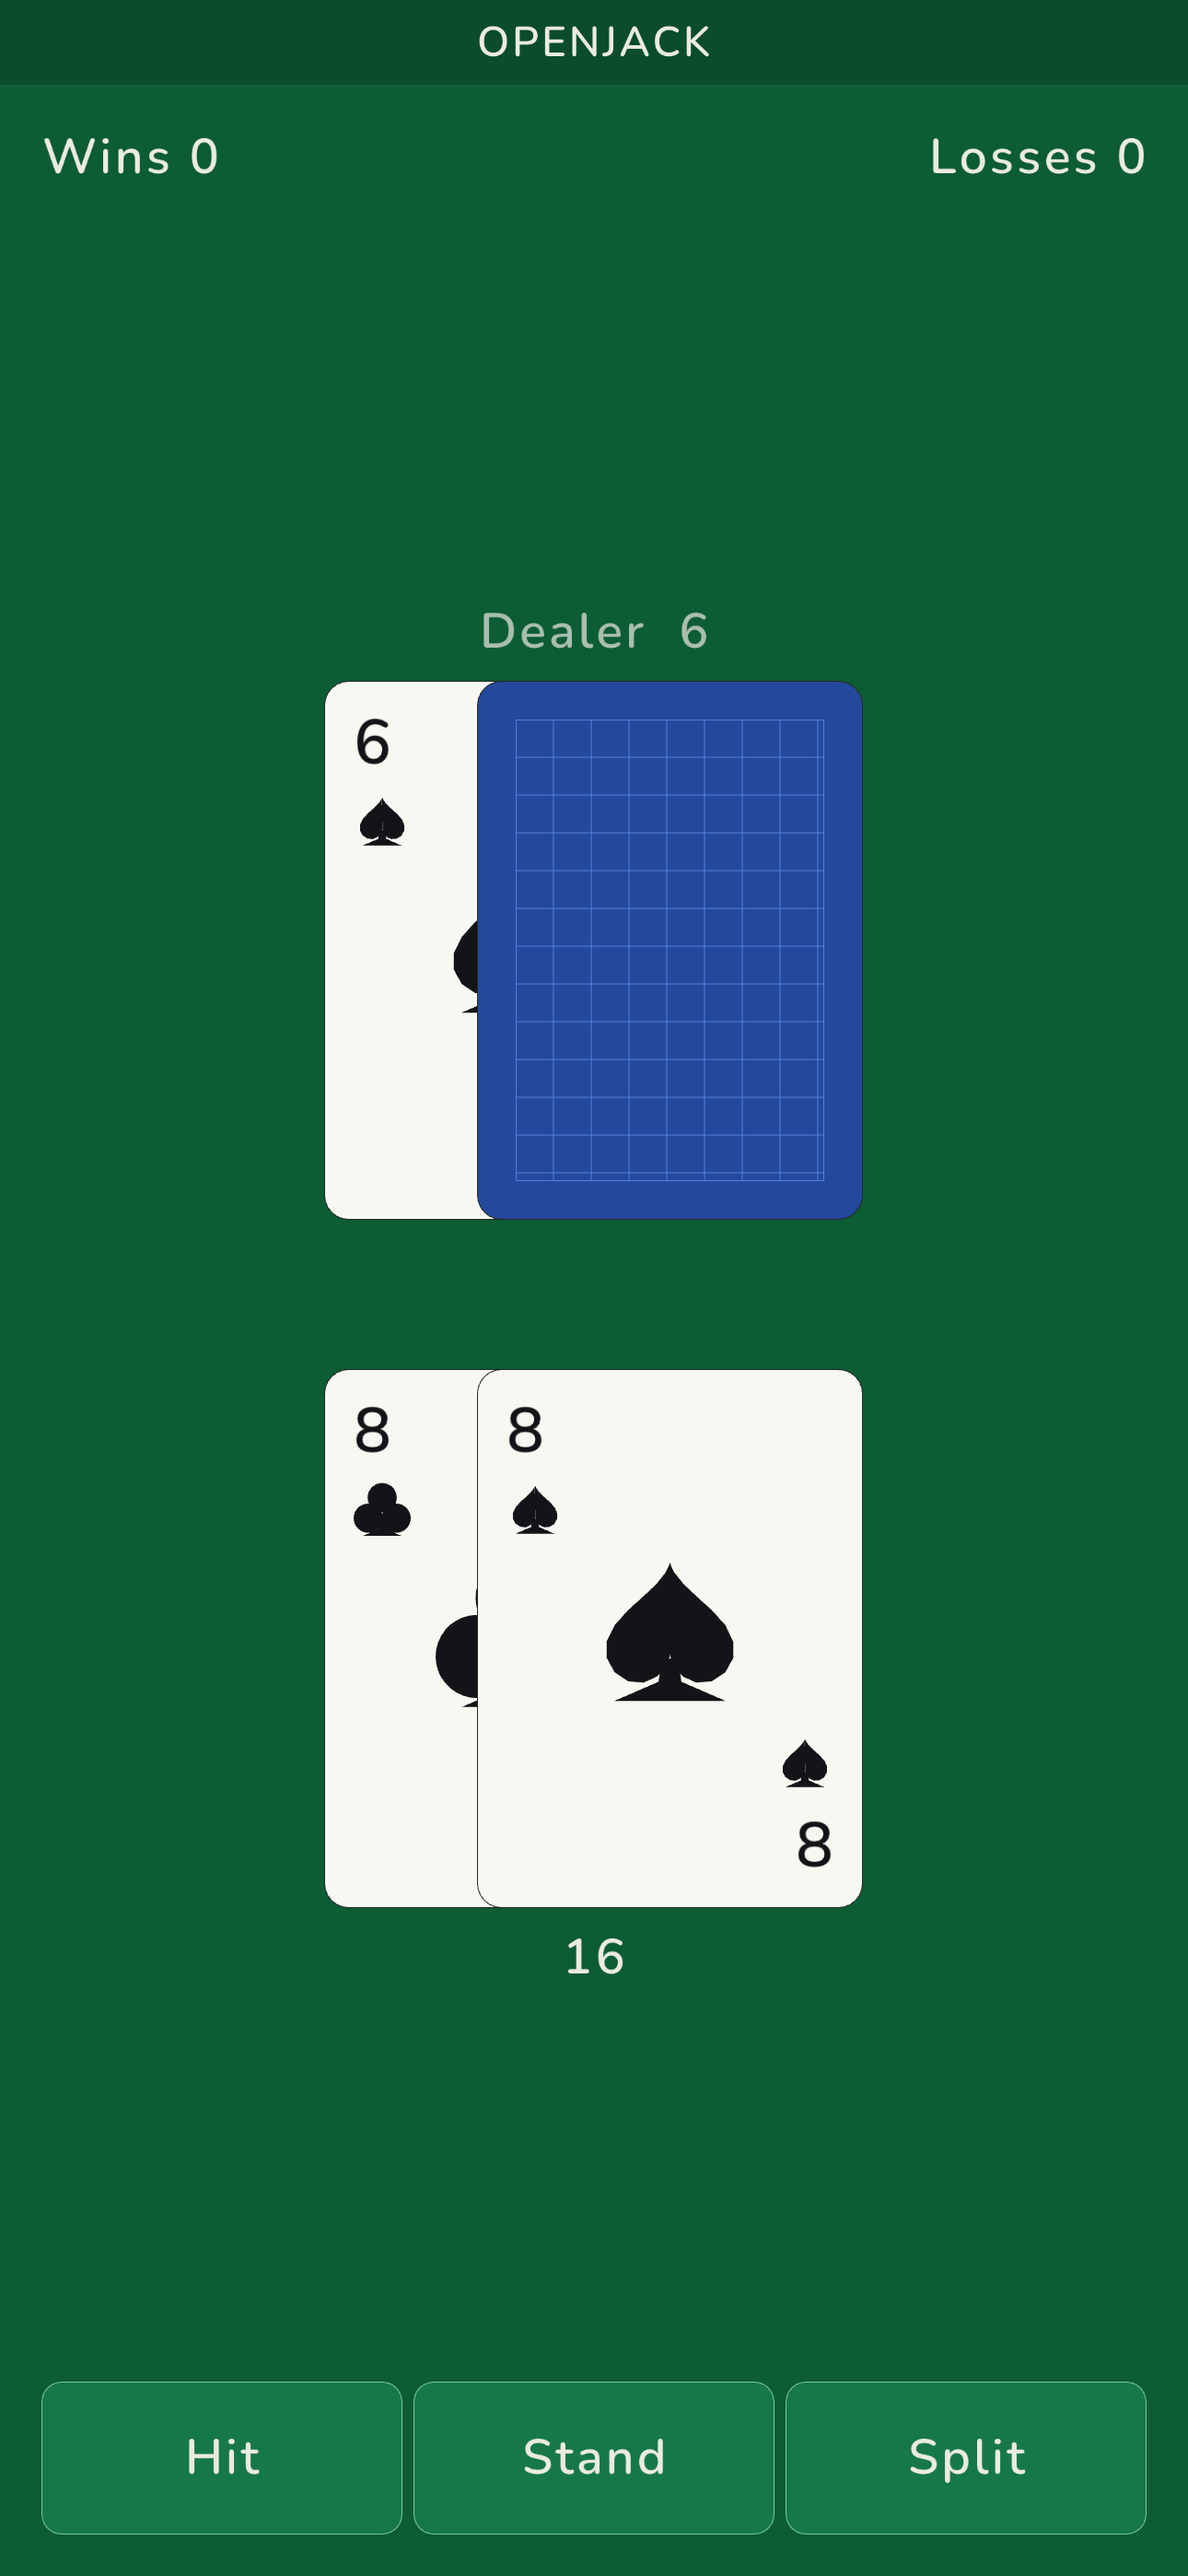
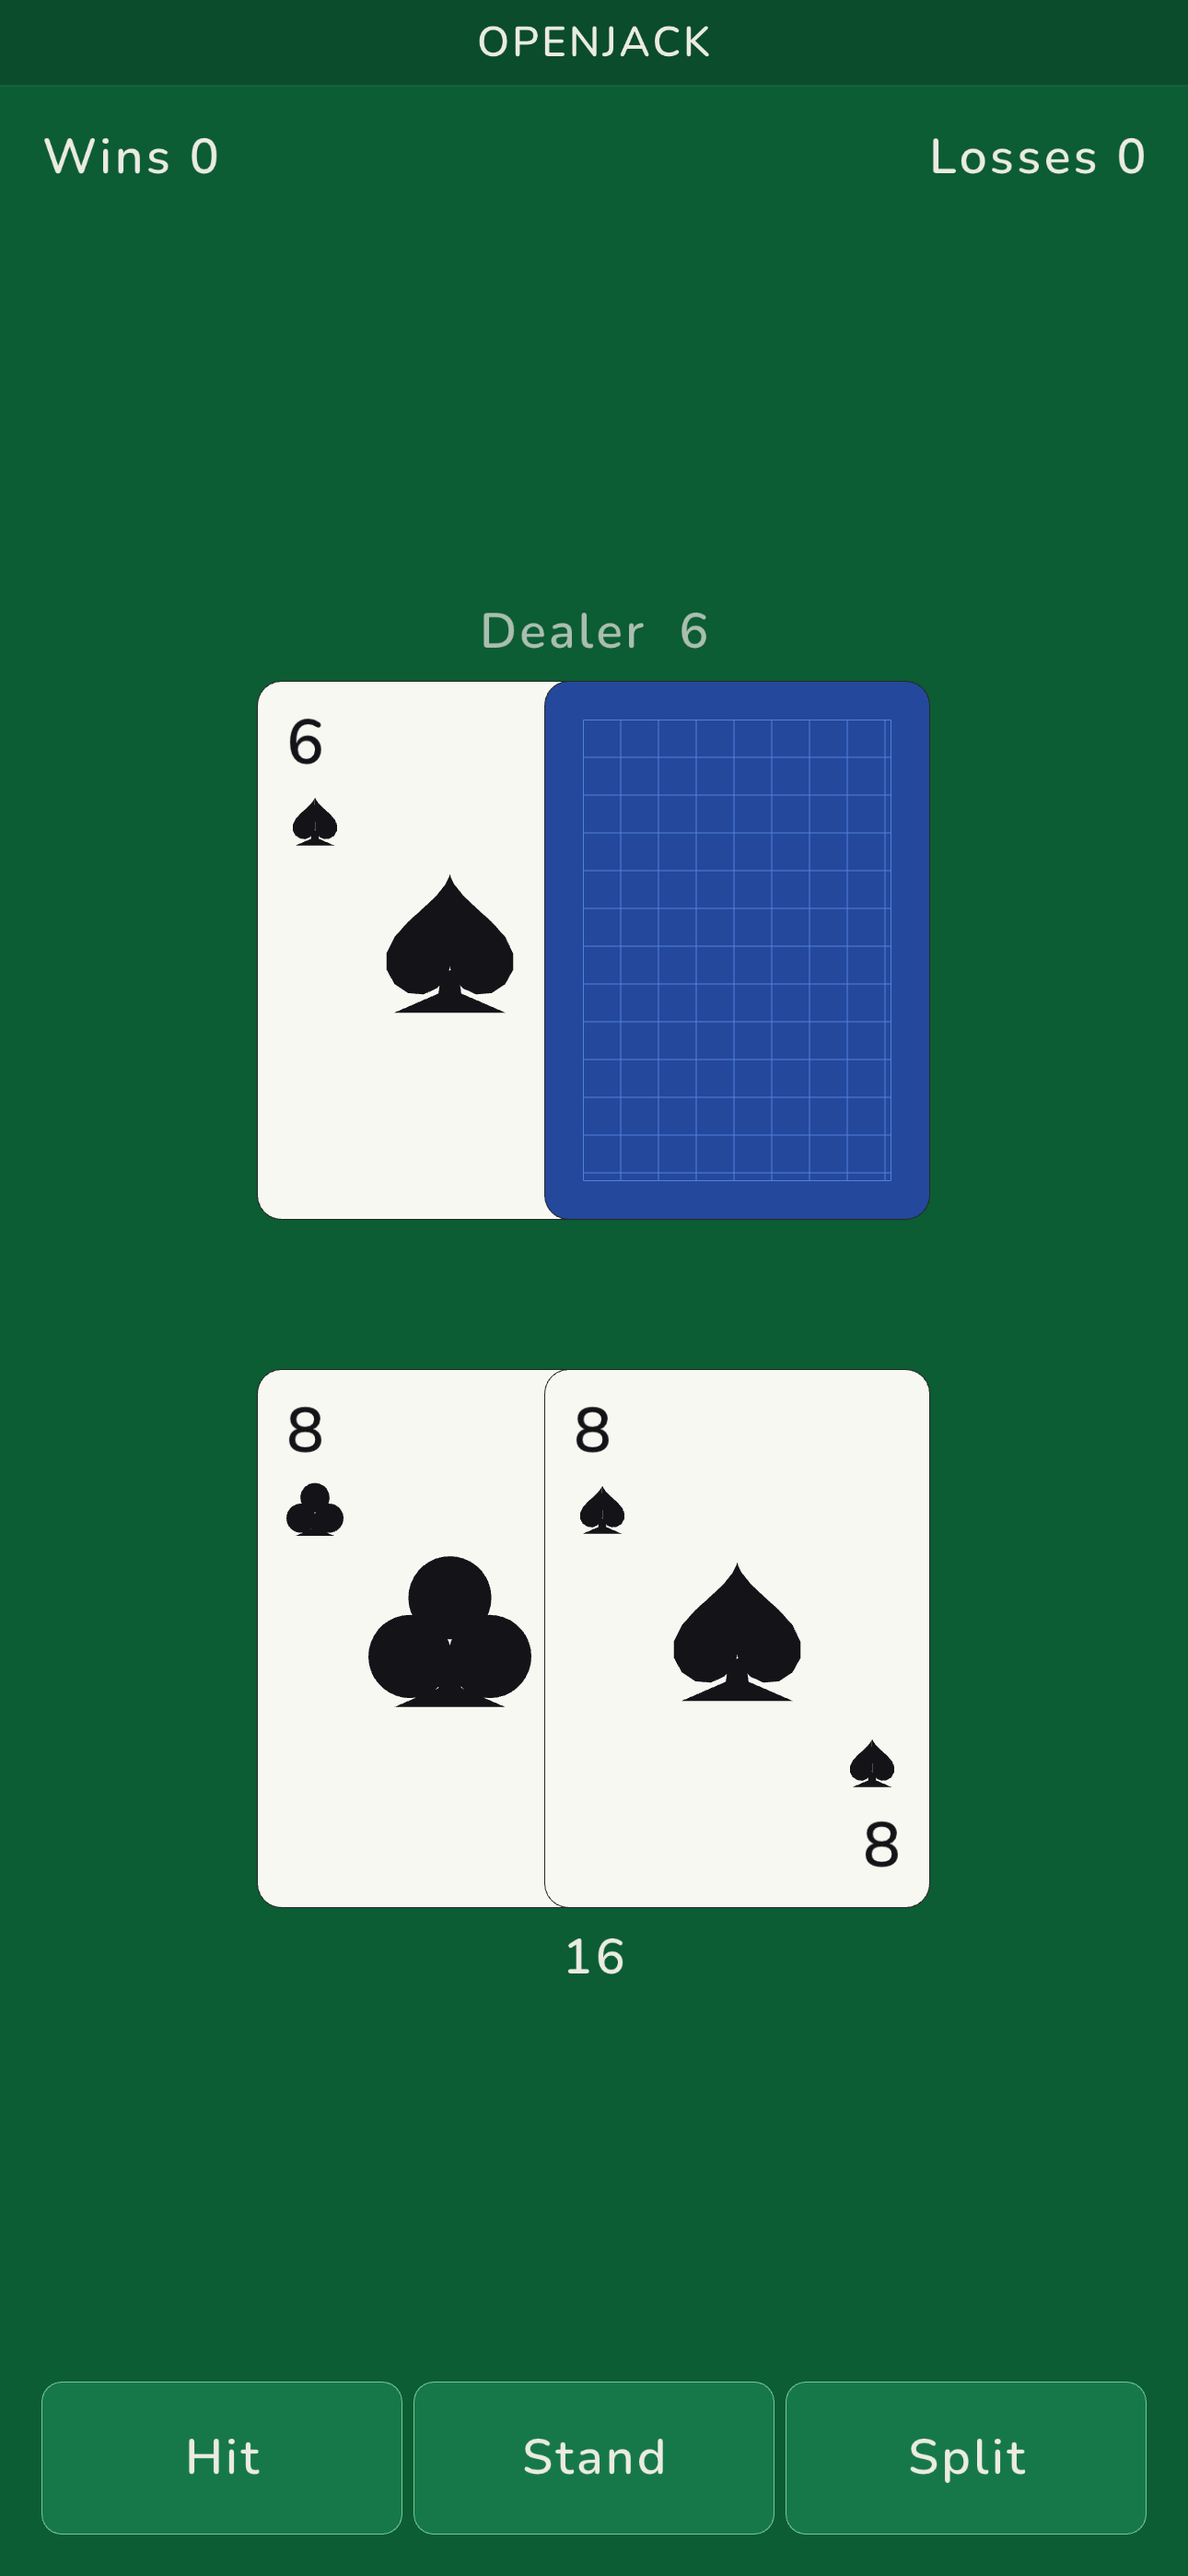
Loosen the card fan so each card shows 3/4 of itself
Each card now shows its rank, suit and centre pip under the next one instead
of only the left 2/5. Card size is unchanged: cards are still sized against a
2/5 fan, and where four split hands leave a slot too narrow the fan closes up
toward 2/5 instead of shrinking the cards. Store screenshots regenerated.

diff --git a/src/layout.c b/src/layout.c
@@ -23,10 +23,15 @@ static int top_bar_of(int ref) {
     return (s.top > bar) ? s.top : bar;
 }
 
-// Cards in a hand overlap by all but 2/5 of a card: enough to read each
-// card's corner index.
-#define FAN_NUM 2
-#define FAN_DEN 5
+// Each card in a hand shows 3/4 of itself under the next one: the rank, the
+// suit and the centre pip. Cards are sized against a tighter 2/5, enough to
+// read the corner index, so the looser fan costs no card size: where a slot is
+// too narrow for it (split hands on an upright phone) the fan closes up toward
+// 2/5 instead (layout_card_x).
+#define FAN_NUM 3
+#define FAN_DEN 4
+#define FIT_FAN_NUM 2
+#define FIT_FAN_DEN 5
 
 #define MIN_CARD_W 16
 
@@ -68,7 +73,7 @@ static Layout arrange(const Layout* base, bool side, int hand_rows) {
     int per_row = MAX_HANDS / hand_rows;
     int slot_gap = 2 * l.gap;
     int slot = (l.table_w - (per_row - 1) * slot_gap) / per_row;
-    int cw_w = slot * FAN_DEN / (FAN_DEN + FAN_NUM);
+    int cw_w = slot * FIT_FAN_DEN / (FIT_FAN_DEN + FIT_FAN_NUM);
 
     // Height: the dealer's row and every row of hands, each with its total,
     // around the message band.

diff --git a/tests/test_layout.c b/tests/test_layout.c
@@ -128,6 +128,14 @@ static void check_table(const char* name, int w, int h) {
                 int cx = layout_card_x(&l, sx, sw, 6, c);
                 CHECK(cx >= sx && cx + l.card_w <= sx + sw);
             }
+            // A two-card hand never closes tighter than 2/5 of a card, what
+            // the cards are sized against, however many hands share the row.
+            int step2 = layout_card_x(&l, sx, sw, 2, 1) - layout_card_x(&l, sx, sw, 2, 0);
+            if (step2 < l.card_w * 2 / 5) {
+                printf("  FAIL %s %dx%d: %d hands, fan %d < 2/5 of %d\n", name, w, h, n, step2, l.card_w);
+                failures++;
+            }
+            if (n == 1) CHECK(step2 == l.fan);   // a lone hand gets the full fan
             for (int j = 0; j < i; j++) CHECK(!overlaps(slots[i], slots[j]));
         }
     }

diff --git a/docs/touch-and-scaling.md b/docs/touch-and-scaling.md
@@ -21,8 +21,10 @@ and keeps the arrangement with the biggest cards. The shapes in the right-hand
 column are what the solver picks, not rules written into it.
 
 Cards are sized for four hands of two cards, whatever is dealt, so a split never
-shrinks the cards or moves the dealer. A hand longer than its slot compresses
-its fan instead of overflowing. When a view keeps a second row for split hands
+shrinks the cards or moves the dealer. Each card shows 3/4 of itself under the
+next, but the sizing only counts on 2/5, so where four hands leave a slot too
+narrow for the full fan it closes up toward 2/5 instead. A hand longer than its
+slot compresses its fan further instead of overflowing. When a view keeps a second row for split hands
 and the round has only one or two, the table moves down half a row so it sits
 centred (`layout_for_hands`); that is the only thing that moves when a third
 hand appears.
